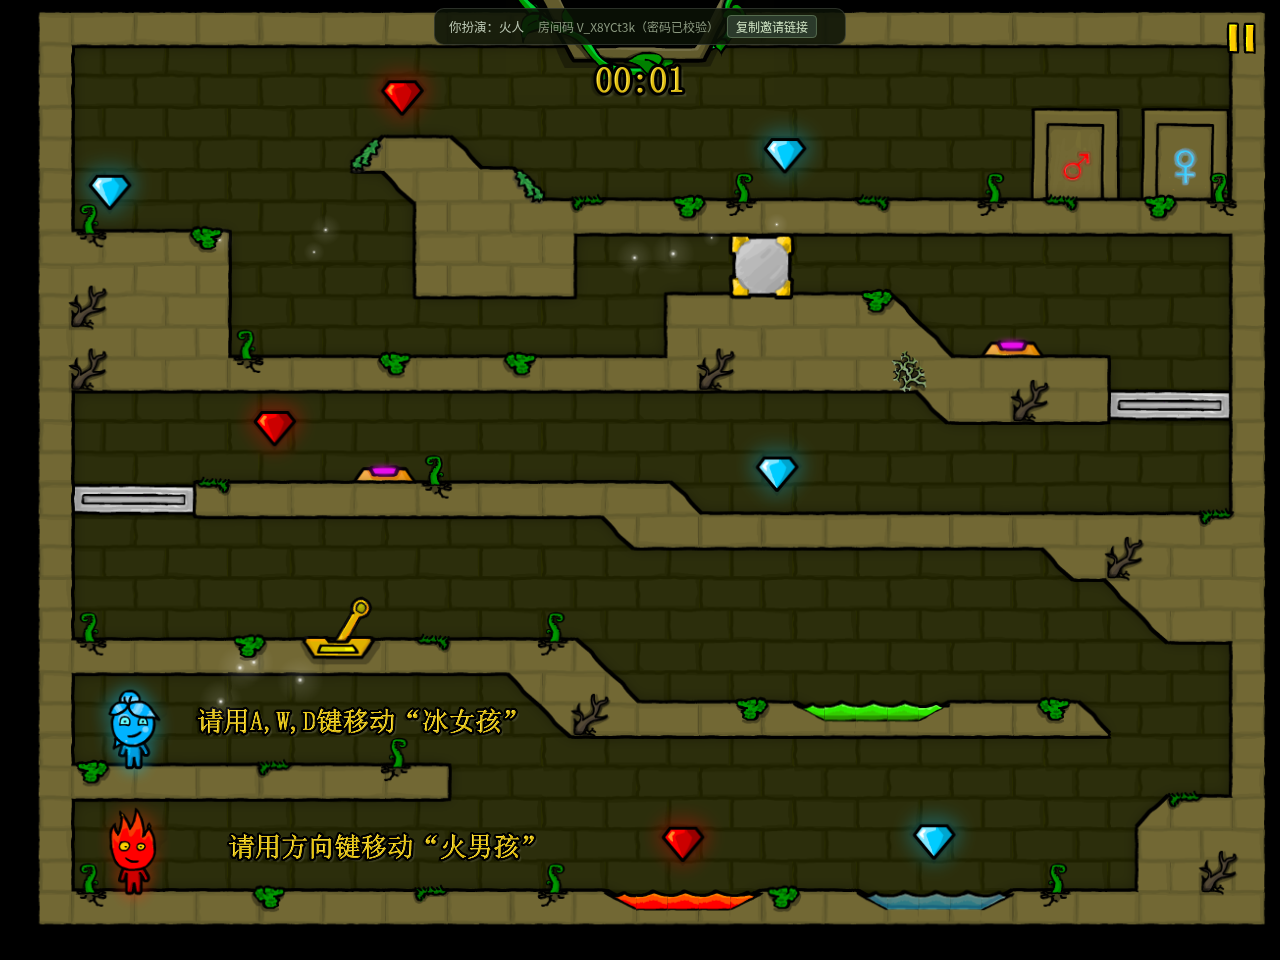
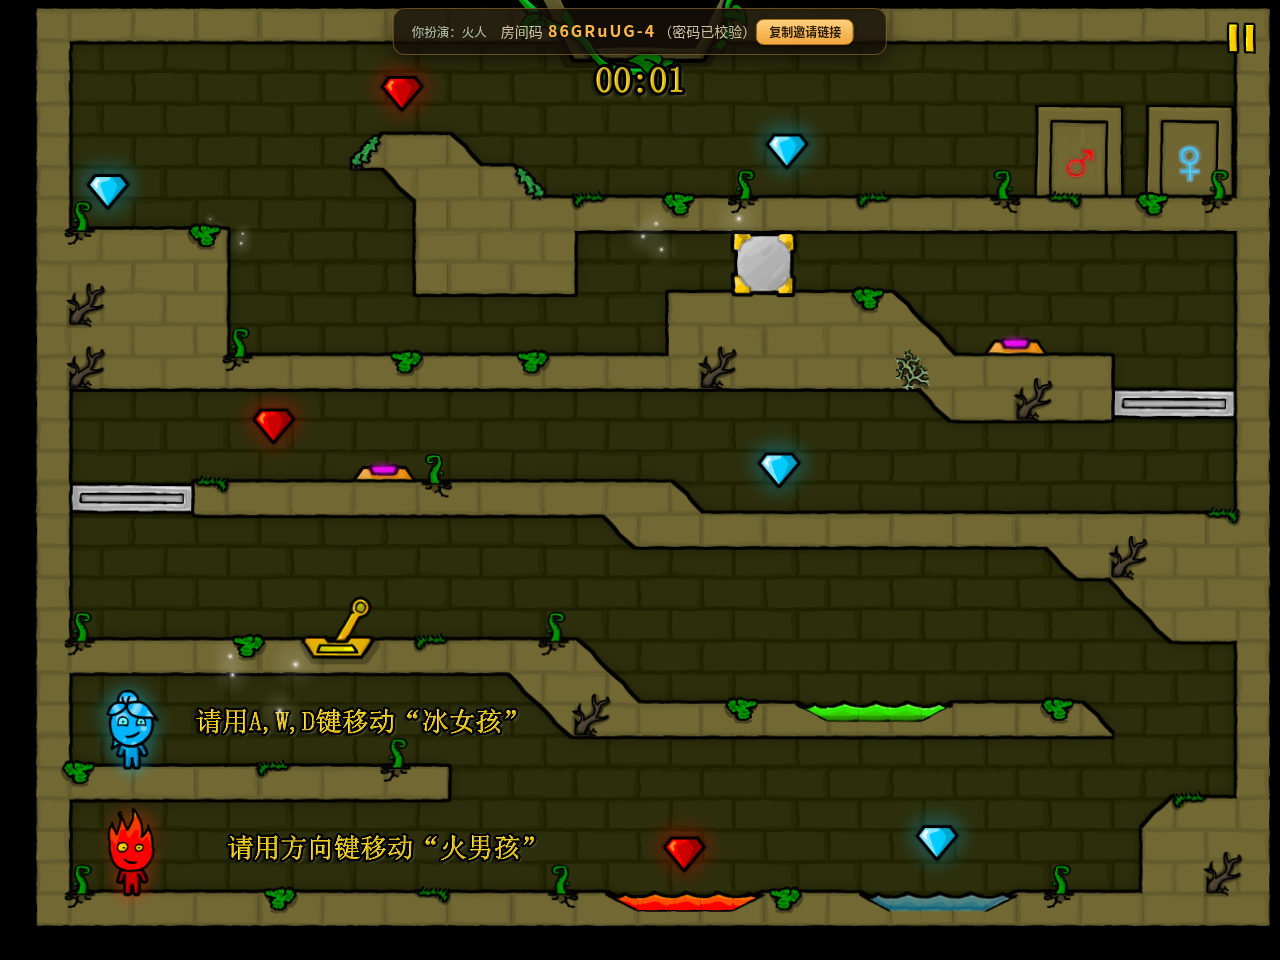
wip(flashp): 方向A实施档卷——README §实施记录（ID契约自证/mockup差异八条/门禁数字/journey·touch既有问题基线取证）+visual-diff 归档PNG随跑更新

diff --git a/gyのFW/note/research/2026-10-19-connect-ui/README.md b/gyのFW/note/research/2026-10-19-connect-ui/README.md
@@ -160,3 +160,42 @@
 
 - `mockups/a-stone-hall.html` / `b-canvas-native.html` / `c-twin-gates.html`：自包含单文件（图集帧 base64 内嵌），浏览器 `file://` 直开，1280×960 自动缩放适配。右下 DEMO 控制台可切换：连接中 / 错误（短/长）/ 建房成功→HUD；B 另有幽灵层"真实视图"切换与弹入重播。页面内保留全部契约 ID（`#menu`/`#menu-level`/`#password`/`#roomcode`/`#btn-create`/`#btn-join`/`#menu-error`/`#hud-room`/`#btn-invite`），DEMO 之外无臆造交互。
 - 无头验证（2026-10-19，Playwright chromium，1280×960）：三份 mockup 均通过——零 console/page 错误；benchmark 同款动作（fill `#password`/`#roomcode`、click `#btn-create`/`#btn-join`、`waitForSelector("#menu", hidden)`、`#hud-room` 匹配 `/房间码 [^（\s]{4,}/`、`#menu-level` 精确串）全部成功；全部 `<img>` 解码成功；关键元素无舞台溢出。验证脚本属临时件，随 TEMP 清理，逻辑即上文第 2/7 节断言。
+
+---
+
+## §实施记录（2026-10-19 · 方向 A 实施槽）
+
+按本文方向 A 落地，commit `477cec0`（实现）+ `3808338`（census 清单）+ 档卷。只动 `packages/client/index.html`（主体）、`packages/client/src/main.ts`（最小接线）、根 `package.json` 0.3.32→0.3.33、`scripts/font-subset/used-chars.json`（测试防护网自述的刷新流程）、release note。
+
+### ID 契约自证（§2 逐条）
+九 ID 全部原名原元素类型原语义；装饰全部走伪元素（`#menu-level::before` "◈ "、`#menu-error::before` CrossIcon 帧——textContent 零污染）。探针实证（TEMP 探针，12/12）：`#menu-level` textContent 精确串、`.menu-fit` 在 1280×720 实测 `matrix(0.75,…)`（=min(1280/1280,720/960)，与画布 FIT 同因子，tan/atan2 在门禁 chromium 生效）、hover 换帧 `0px 0px → 33.1606% 0px`、fill/click 全视口（1280×720 / 1400×1000 / iPhone 13）可用、`?room=&pw=` 深链回填、忙态 spinner+双按钮禁用→失败回横幅+解锁、零 console/page 错误。
+
+### 与 mockup 的差异点（及理由）
+1. **资产**：mockup 用 base64 裁片 + border-image；生产按派发要求零新增资产——直引图集（PopupAssets/MenuAssets/CharAssets，画布 BootScene 已预载同 URL，CSS 引用零额外字节），帧坐标走 background-size/position 百分比换算（2048/1082、205/1406、1024/252、256/772、61/18 推导）。整图 border-image 不可行已证：PopupBackground0000 在 atlas (0,205)，非贴边，slice 无法隔离（CrossIcon 等帧会漏入角片）。
+2. **面板几何**：mockup 板外框 748px 流式；生产桌面为**原生 1082×642 整帧**（与 overlays.ts 画布弹窗逐像素同几何，经 `.menu-fit` 与画布同因子缩放），`<560px 宽或 <420px 高`回落流宽回流皮（四角 74px 原生裁片盖片在两皮共用，回流皮下边中段随比例拉伸，与 mockup border-image 同级折衷）。
+3. **按钮**：mockup 竖排整宽（600px 板所迫）；生产桌面双钮**并排原生 252×117**（同游戏内弹窗钮组语言），回流皮回到整宽堆叠。
+4. **保留 h1**（mockup 删除）：作为板内标题（同画布弹窗标题位），a11y 保留。
+5. **删去 mockup 的 DOM 蜡烛**：身后 MenuScene 画布本就有 4 支 Navy 蜡烛+角色 idle，DOM 再画一遍会重影——P2 的正确解就是幕布透出，不需 DOM 复刻。
+6. **画布自带标题**：GameName 在幕布后半透可见，与 DOM logo（460px）部分叠合属预期合成；kizi logo 顶部 50px 弱可见，接受。
+7. **错误长诊断折叠（.details/<small>）未做**：`show()` 保持 textContent 单一来源（避免 innerHTML 注入面），长文案由横幅 line-height 换行承载；三态（空/busy/错误）照搬。
+8. **输入框 height 46px、字号 17px**（≥16px，iOS 聚焦不触发视口缩放，较旧版 15px 改善）。
+
+### 门禁数字
+| 项 | 结果 |
+|---|---|
+| tsc（typecheck） | PASS |
+| vite build（仓库根） | PASS（dist/index.html 17.39KB） |
+| vitest 全量 | **89/89 PASS**（首跑 88/89：换肤新增文案触发 font census 防护网——按测试自述重跑 `census.ts` 刷新清单后全绿，client 源字符 395→527、fnt 交集 247→248） |
+| e2e route forest_01 repeat1 | **ALL PASS**（winAt=39559ms，房间 eqOX4nx-a） |
+| journey | **✗ 2 项——基线复跑同点同文失败，判定既有问题非本次回归**（见下） |
+| touch | **✗ 1 项——基线复跑同点同文失败，判定既有问题非本次回归**（见下） |
+| visual-diff | 91.97 / 92.8（两跑，方差 ~0.8pt；**只截 canvas 元素，DOM 换皮不入镜**；历史 95.2–95.8 为 10-13 win 环境数字，本槽未触 canvas 渲染路径，差值归环境/漂移面存疑待核） |
+| perf-client 本地冒烟 | 完成（建房→进房链路通；headless swiftshader webgl 13.3fps / canvas 60.6fps 属环境正常值） |
+
+### 既有问题（基线取证，未修——不在本槽文件边界内）
+- **journey「联机面板弹出并预选下一关」**：`__fwNextLevel` 现行走活房间 advance（0.3.12 语义，服务端仅 won 受理、双端留场换关），菜单不再弹出；journey.mjs 的该检查仍是旧 Continue 回大厅语义。基线（477cec0^）复跑：同两 ✗、detail 逐字同（`已选关卡：forest_01`）。journey.mjs 需按现语义改写场景。
+- **touch「tap 跳跃 → y 上抬」**：Δy=0.0px ×2（本槽）+ 基线 ×1 同值；右移/三键/零报错均绿。疑 Ubuntu 迁移（f804bc3）后 bundled chromium 触屏 tap 路径问题，待移植槽核。
+- **连接失败横幅显示 raw 错误串**（如 "[object ProgressEvent]"）：0.3.32 同款 catch 直通行为，非本次引入。
+
+### 遗留
+- `<560px` 回流皮的石纹边中段拉伸与 74px 固定角片的比例失配，小屏上不显眼；若后续立项可换 §3 方向 C 双门布局（同一套帧坐标资产可直接复用）。
